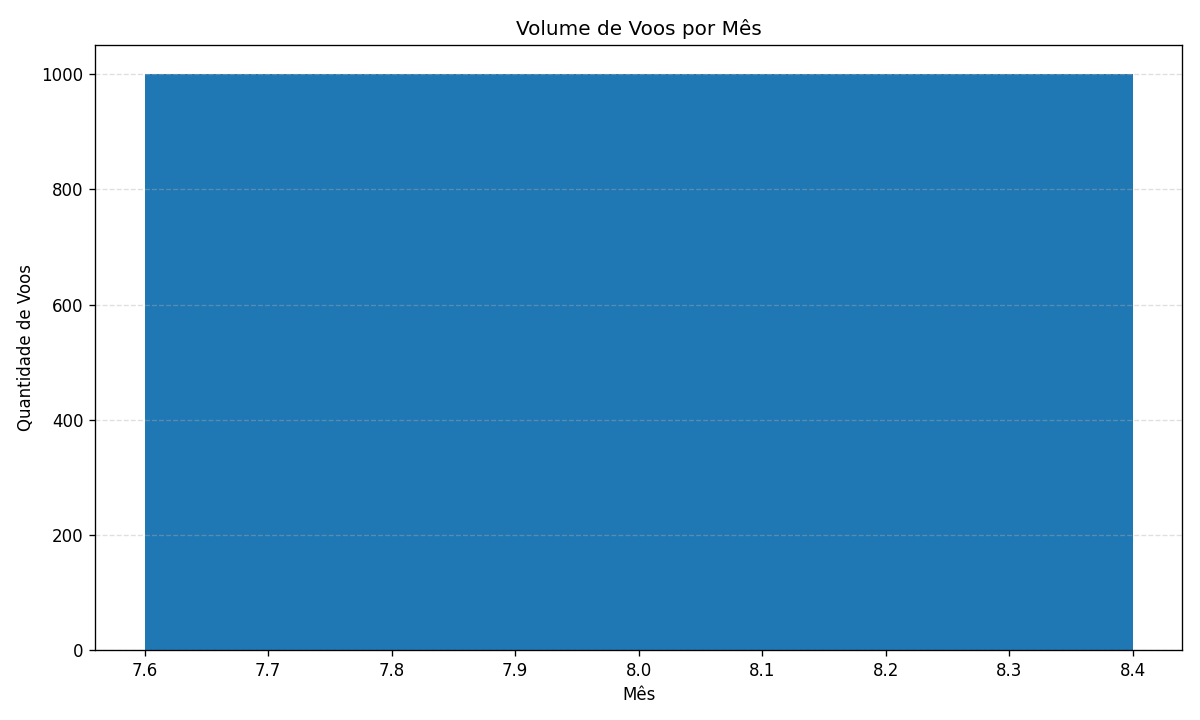
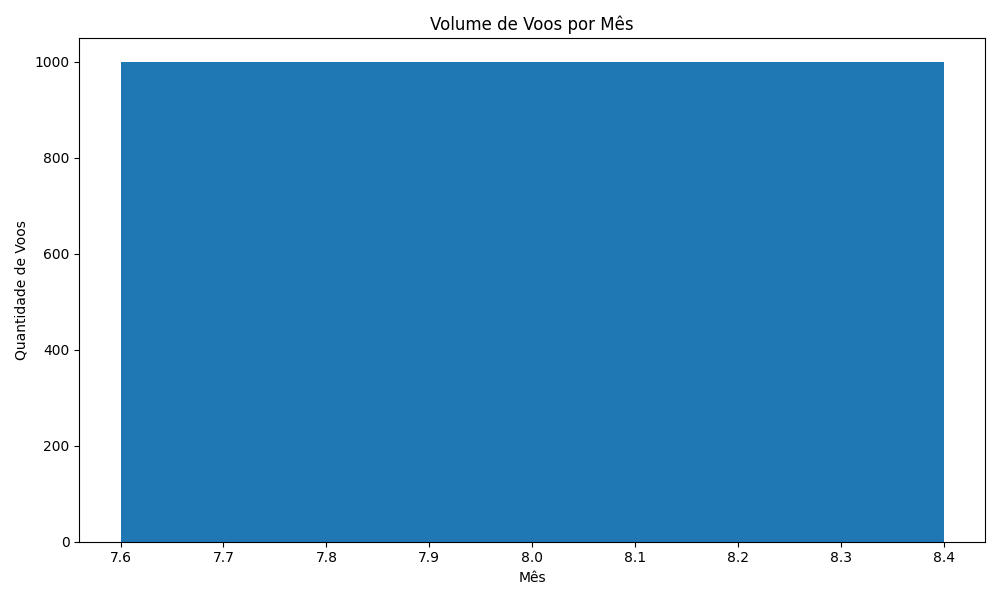
fix: visualization input  to int

diff --git a/src/processing/visualization.py b/src/processing/visualization.py
@@ -31,25 +31,39 @@ def plot_voos_por_empresa(df: pl.LazyFrame, output_path: Path):
 def plot_voos_por_mes(df: pl.LazyFrame, output_path: Path):
     logging.info("Plotting plot_voos_por_mes...")
 
-    data = df.group_by("nr_mes_referencia").len().sort("nr_mes_referencia").collect()
+    data = (
+        df.with_columns(pl.col("nr_mes_referencia").cast(pl.Int32))
+        .group_by("nr_mes_referencia")
+        .len()
+        .sort("nr_mes_referencia")
+        .collect()
+    )
 
-    fig, ax = plt.subplots(figsize=FIG_SIZE)
+    fig, ax = plt.subplots(figsize=(10, 6))
     ax.bar(data["nr_mes_referencia"], data["len"])
 
     ax.set_title("Volume de Voos por Mês")
     ax.set_xlabel("Mês")
     ax.set_ylabel("Quantidade de Voos")
-    ax.grid(axis="y", linestyle="--", alpha=0.4)
 
-    _save(fig, output_path / "flights_per_month.png")
+    fig.tight_layout()
+    fig.savefig(output_path / "flights_per_month.png")
+    plt.close(fig)
 
 
 def plot_voos_por_ano(df: pl.LazyFrame, output_path: Path):
     logging.info("Plotting plot_voos_por_ano...")
 
-    data = df.group_by("nr_ano_referencia").len().sort("nr_ano_referencia").collect()
+    data = (
+        df.with_columns(pl.col("nr_ano_referencia").cast(pl.Int32))
+        .group_by("nr_ano_referencia")
+        .len()
+        .sort("nr_ano_referencia")
+        .collect()
+    )
 
-    fig, ax = plt.subplots(figsize=FIG_SIZE)
+    fig, ax = plt.subplots(figsize=(10, 6))
+
     ax.bar(data["nr_ano_referencia"], data["len"])
 
     ax.set_title("Volume de Voos por Ano")
@@ -57,7 +71,9 @@ def plot_voos_por_ano(df: pl.LazyFrame, output_path: Path):
     ax.set_ylabel("Quantidade de Voos")
     ax.grid(axis="y", linestyle="--", alpha=0.4)
 
-    _save(fig, output_path / "flights_per_year.png")
+    fig.tight_layout()
+    fig.savefig(output_path / "flights_per_year.png", dpi=120)
+    plt.close(fig)
 
 
 def plot_top_paises(df: pl.LazyFrame, output_path: Path):

diff --git a/src/processing/report.py b/src/processing/report.py
@@ -11,15 +11,20 @@ def generate_report(df: pl.LazyFrame) -> pl.DataFrame:
 
     numeric_types = (pl.Int8, pl.Int16, pl.Int32, pl.Int64, pl.Float32, pl.Float64)
 
-    numeric_cols = [col for col, dtype in df.schema.items() if dtype in numeric_types]
+    numeric_cols = [col for col, dtype in df.collect_schema().items() if dtype in numeric_types]
 
     metrics = [
         pl.len().alias("total_rows"),
-        *[pl.col(c).null_count().alias(f"{c}_nulls") for c in df.columns],
+        *[pl.col(c).null_count().alias(f"{c}_nulls") for c in df.collect_schema().names()],
         *[pl.col(c).mean().alias(f"{c}_mean") for c in numeric_cols],
         *[pl.col(c).std().alias(f"{c}_stddev") for c in numeric_cols],
     ]
-    report = df.select(metrics).with_columns(pl.lit(datetime.utcnow()).alias("run_ts")).collect()
+    report = (
+        df.select(metrics)
+        .with_columns(pl.lit(datetime.now()).alias("run_ts"))
+        .with_columns(pl.col("run_ts").dt.date().alias("run_date"))
+        .collect()
+    )
     return report
 
 
